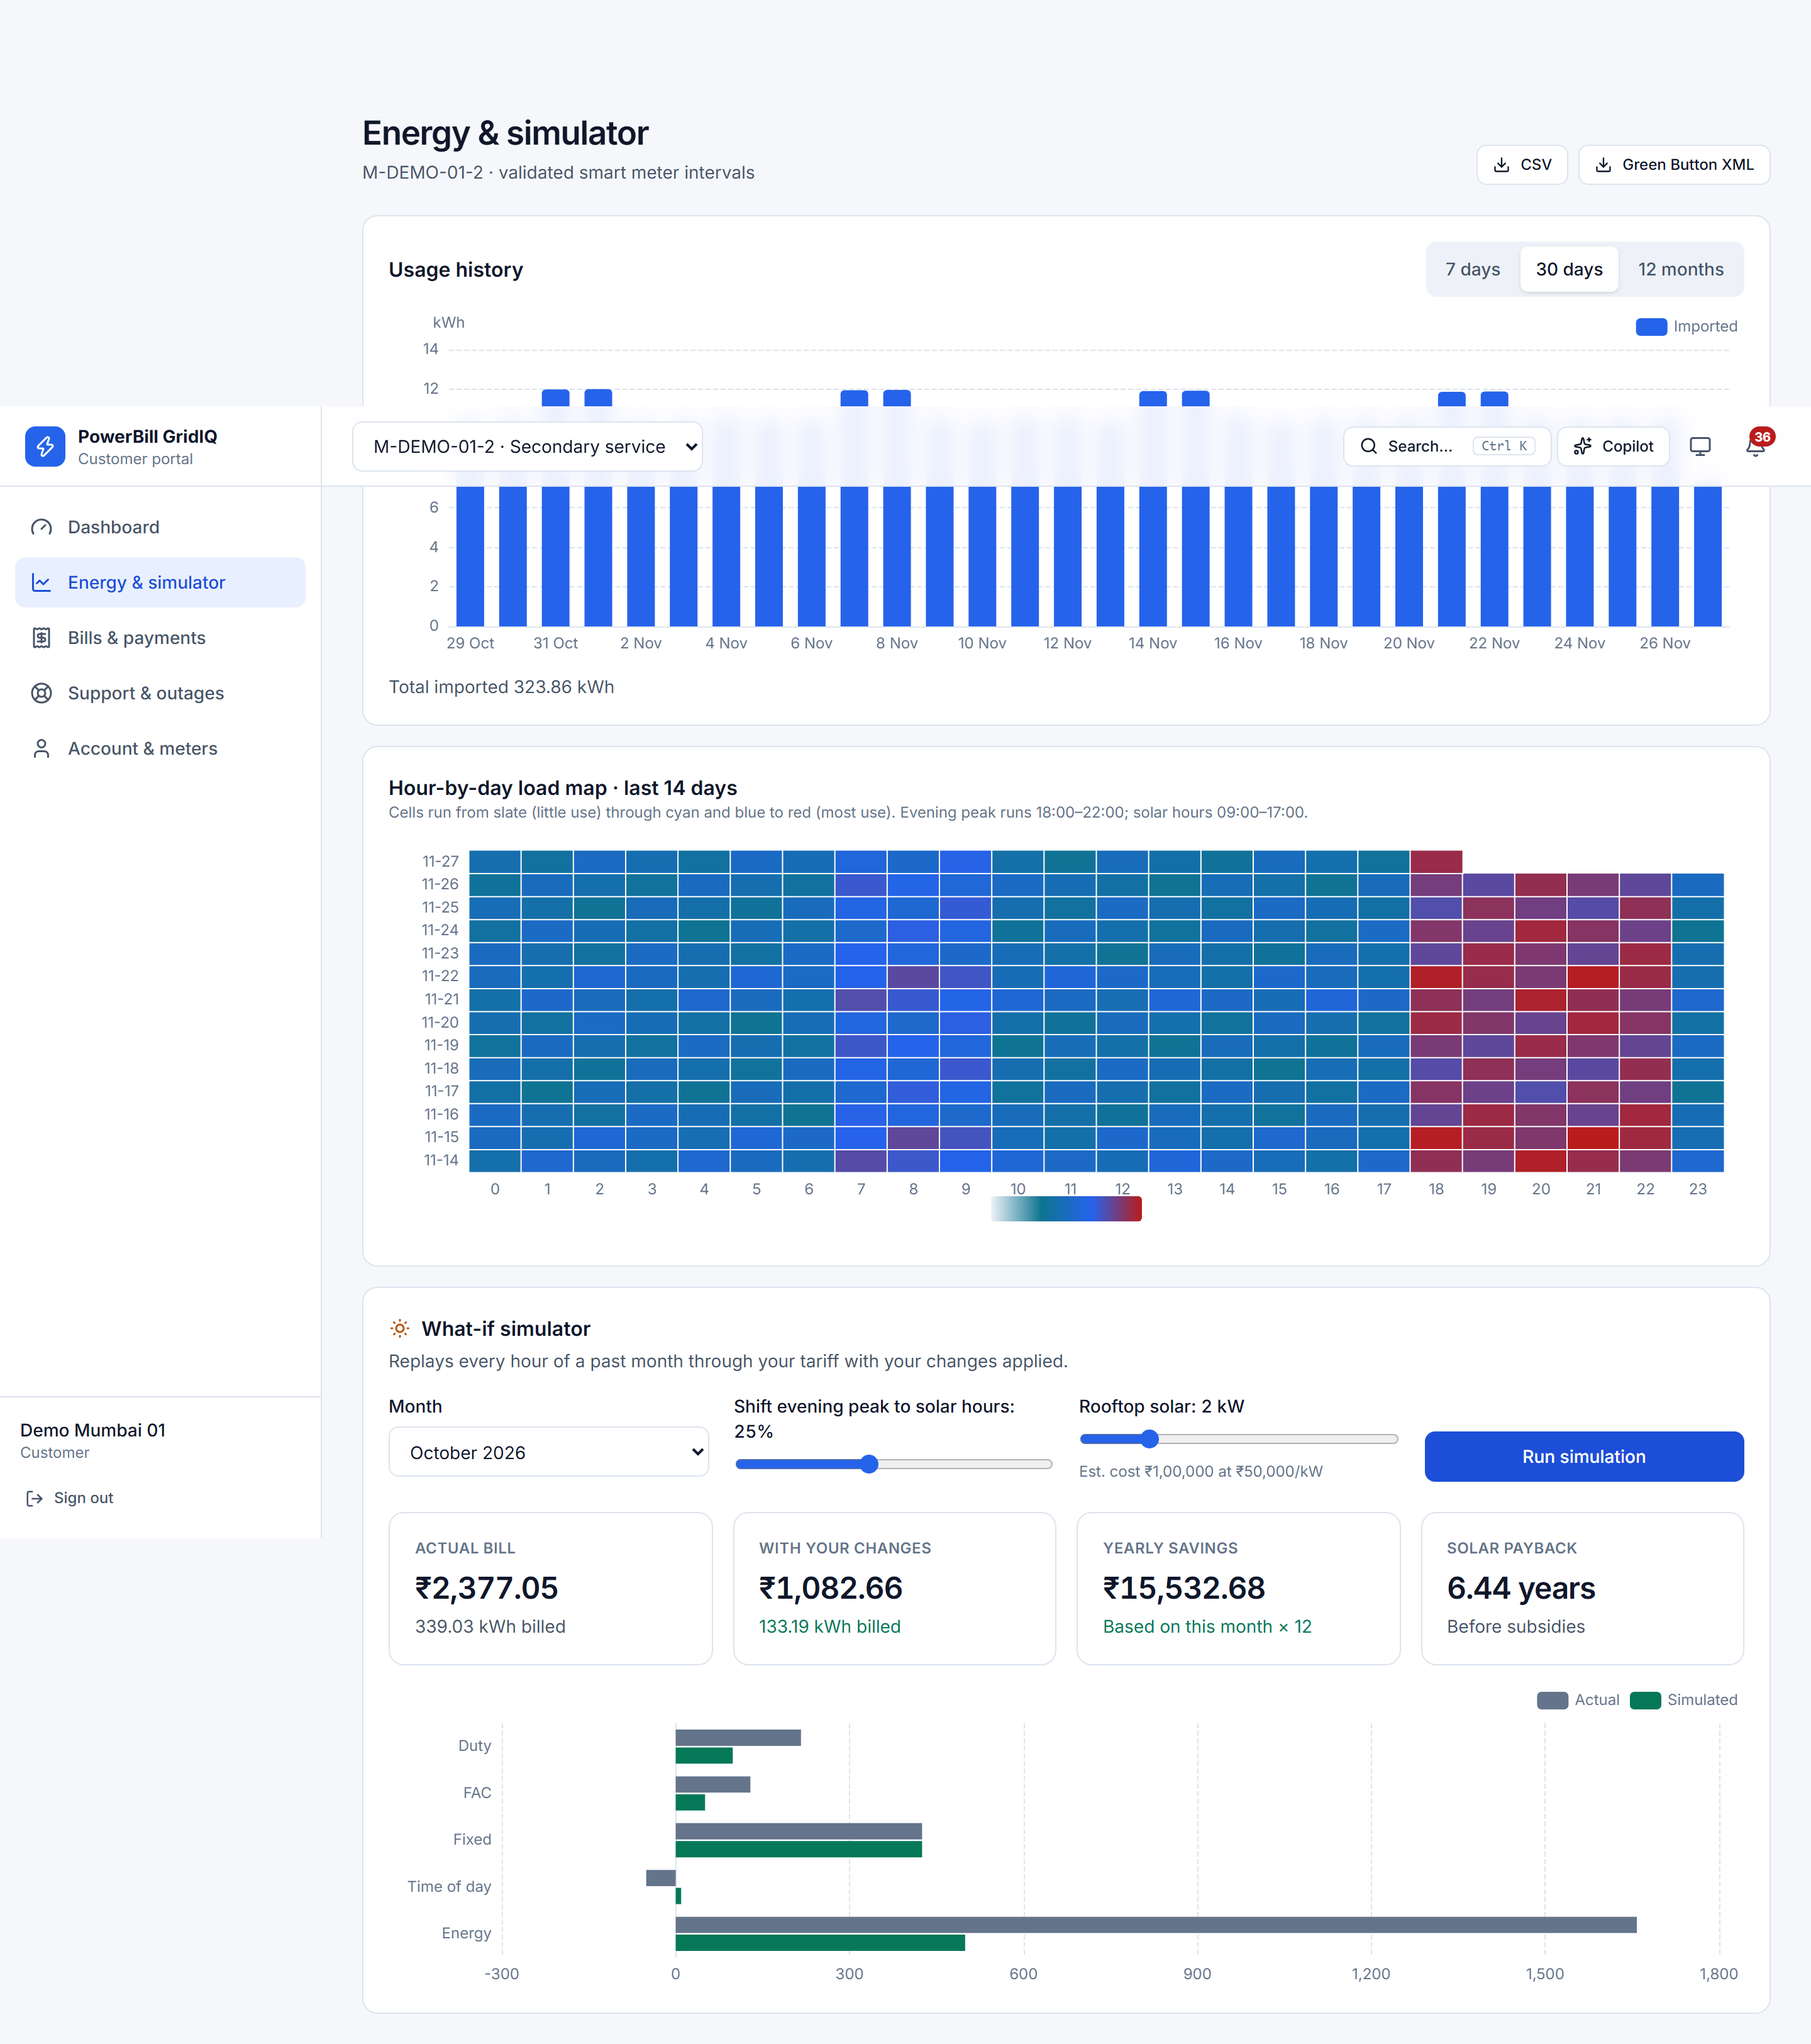
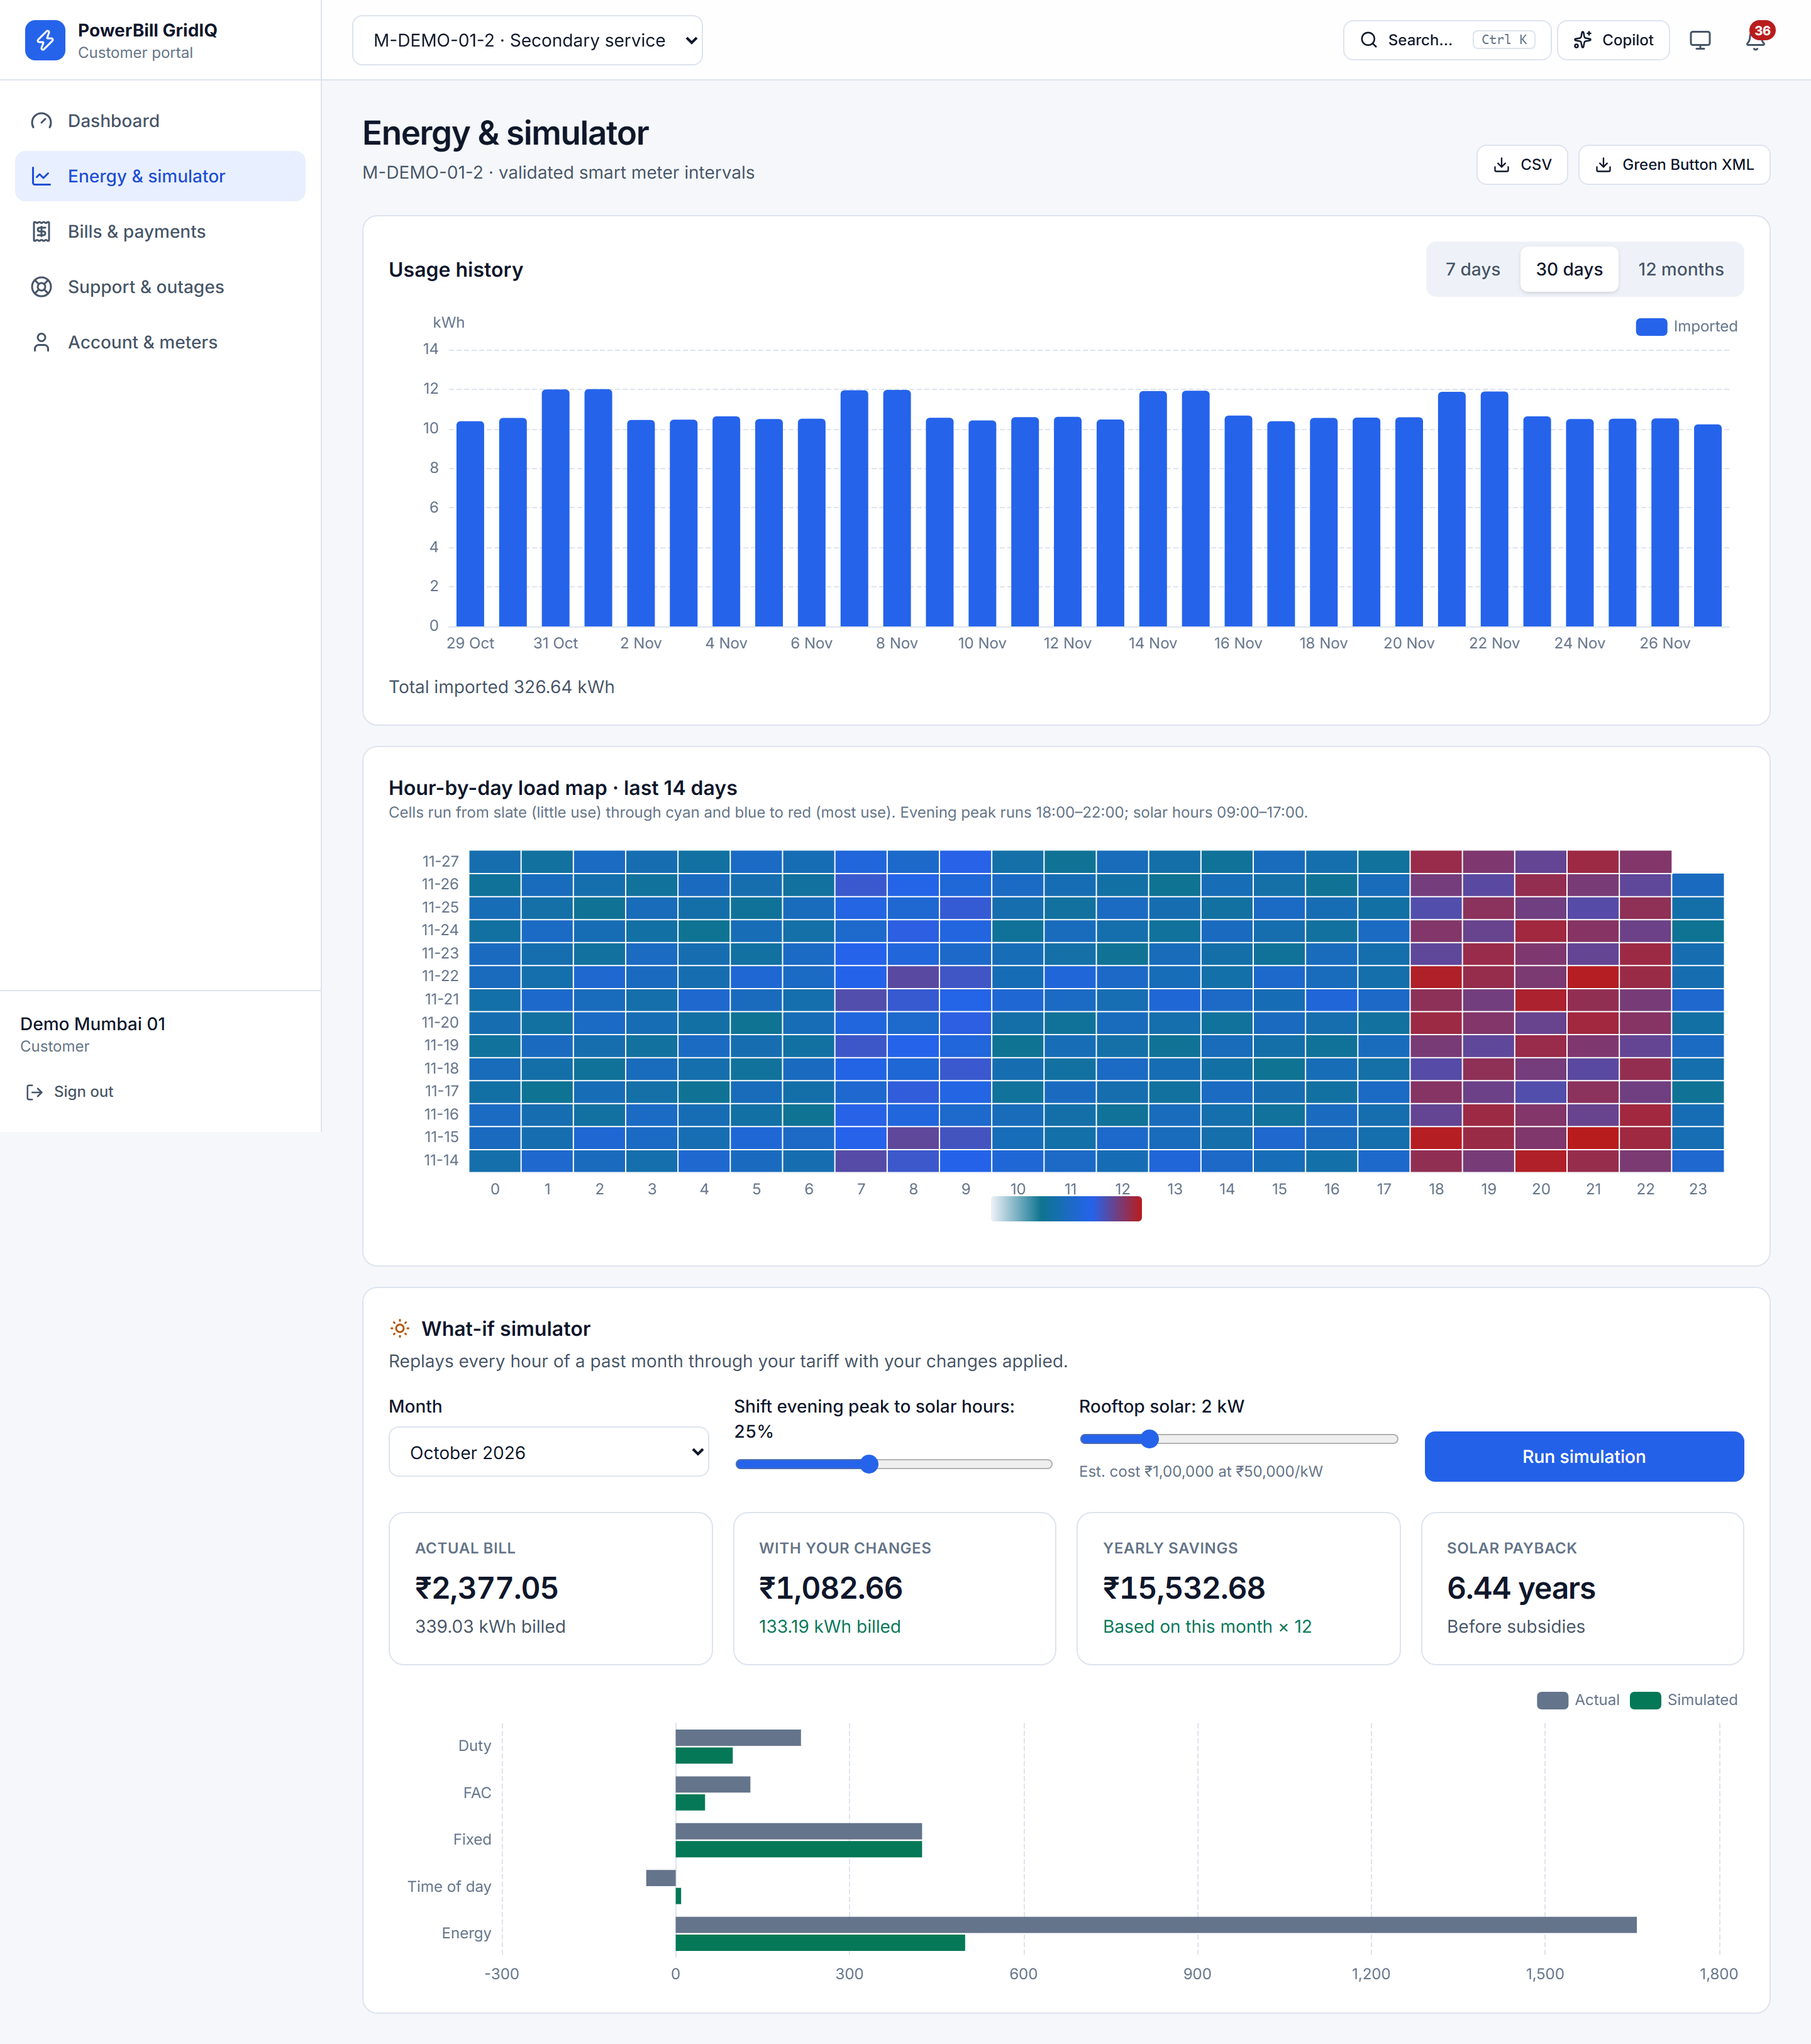
Polish screenshots, region labels and the README profiles
Scroll to the top before full-page screenshot captures so the sticky
header and sidebar no longer cover the usage chart, and recapture the
energy and executive screenshots. Show a region's city only when it
differs from the region name. List the development compose override
with Swagger UI in the README's optional profiles.

diff --git a/frontend/e2e/screenshots.spec.ts b/frontend/e2e/screenshots.spec.ts
@@ -33,6 +33,8 @@ test('energy and simulator', async ({ page }) => {
   await page.getByRole('button', { name: 'Run simulation' }).click();
   await expect(page.getByText('Yearly savings')).toBeVisible({ timeout: 30_000 });
   await settle(page);
+  // Full-page captures start from the top, so the sticky header and sidebar do not land over the content.
+  await page.evaluate(() => window.scrollTo(0, 0));
   await page.screenshot({ path: `${OUT}/energy-simulator.png`, fullPage: true });
 });
 
@@ -41,6 +43,7 @@ test('executive overview', async ({ page }) => {
   await signIn(page, 'admin', /\/ops\/dashboard$/);
   await expect(page.getByRole('heading', { name: /Regional performance/ })).toBeVisible({ timeout: 30_000 });
   await settle(page);
+  await page.evaluate(() => window.scrollTo(0, 0));
   await page.screenshot({ path: `${OUT}/executive-overview.png`, fullPage: true });
 });
 

diff --git a/frontend/src/app/features/ops/executive.ts b/frontend/src/app/features/ops/executive.ts
@@ -128,7 +128,8 @@ interface Region {
             <tbody>
               @for (region of data()!.regions; track region.regionZone) {
                 <tr>
-                  <td class="font-medium">{{ region.regionZone }}<span class="block text-xs text-faint">{{ region.city }}</span></td>
+                  <td class="font-medium">{{ region.regionZone }}@if (region.city && region.city !== region.regionZone) {
+                    <span class="block text-xs text-faint">{{ region.city }}</span>}</td>
                   <td class="num text-right">{{ region.meters }}</td>
                   <td class="num text-right">{{ region.meteredKwh | kwh }}</td>
                   <td class="num text-right">{{ region.billedKwh | kwh }}</td>

diff --git a/README.md b/README.md
@@ -72,6 +72,7 @@ Optional profiles:
 | --- | --- | --- |
 | Observability | `docker compose -f docker-compose.yml -f docker-compose.observability.yml up -d` | Prometheus on `127.0.0.1:9090` and Grafana on `127.0.0.1:3000` with a provisioned GridIQ dashboard. Set `GRAFANA_ADMIN_PASSWORD` first. |
 | Local LLM | `docker compose -f docker-compose.yml -f docker-compose.ai-local.yml up -d` | Ollama for the Copilot. Pull a model once with `docker compose exec ollama ollama pull llama3.2:3b`. Answers that introduce numbers not in the customer's data are rejected in favour of the deterministic answer. |
+| API docs (development) | `docker compose -f docker-compose.yml -f docker-compose.dev.yml up -d` | The Core API on `127.0.0.1:8081`, with Swagger UI at `/swagger-ui.html` and the OpenAPI document at `/v3/api-docs`. Loopback only; do not use it for a shared deployment. |
 
 ## Checks
 
